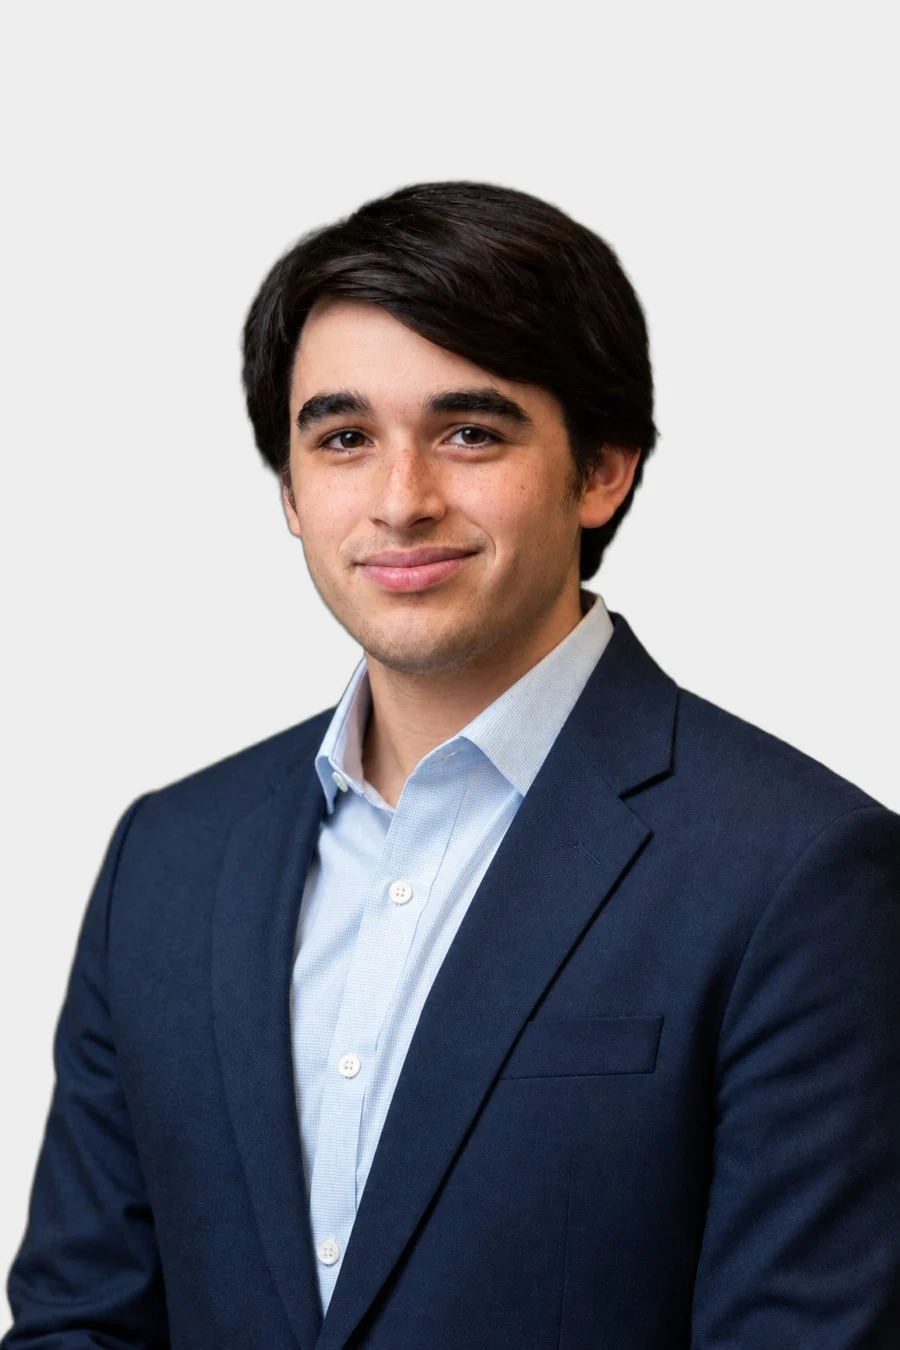
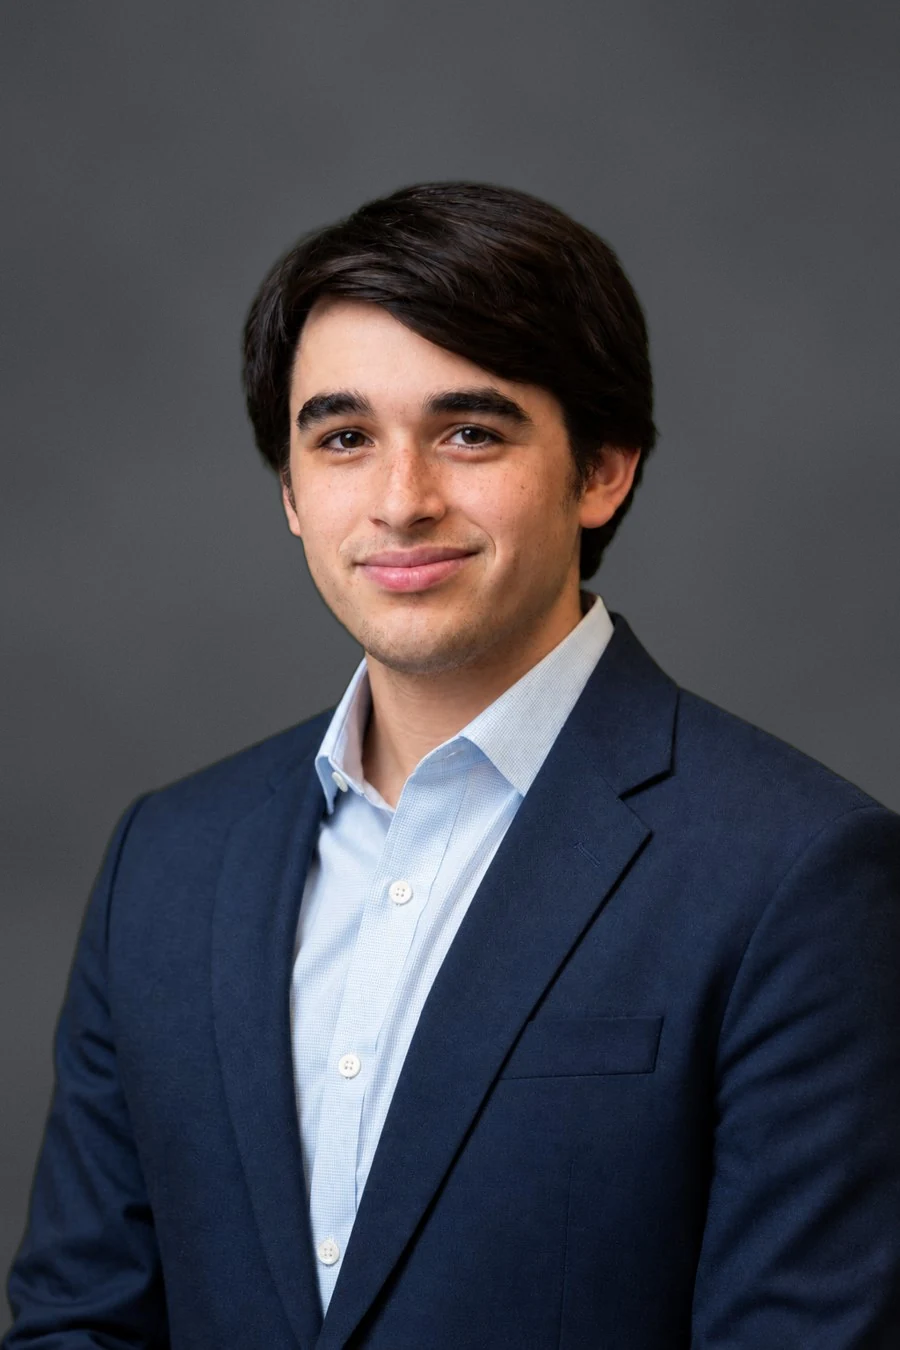
Headshot on a softly textured graphite backdrop
Claude-Session: https://claude.ai/code/session_01X3LgmZH5haXE22BLdYX3sk

diff --git a/index.html b/index.html
@@ -43,7 +43,7 @@
         <a class="s-btn" href="mailto:itsian123@gmail.com">Email me</a>
       </div>
     </div>
-    <div class="s-photo"><img src="assets/img/headshot.webp?v=2" alt="Ian Tarter" width="900" height="1350"></div>
+    <div class="s-photo"><img src="assets/img/headshot.webp?v=3" alt="Ian Tarter" width="900" height="1350"></div>
   </div>
 </section>
 
